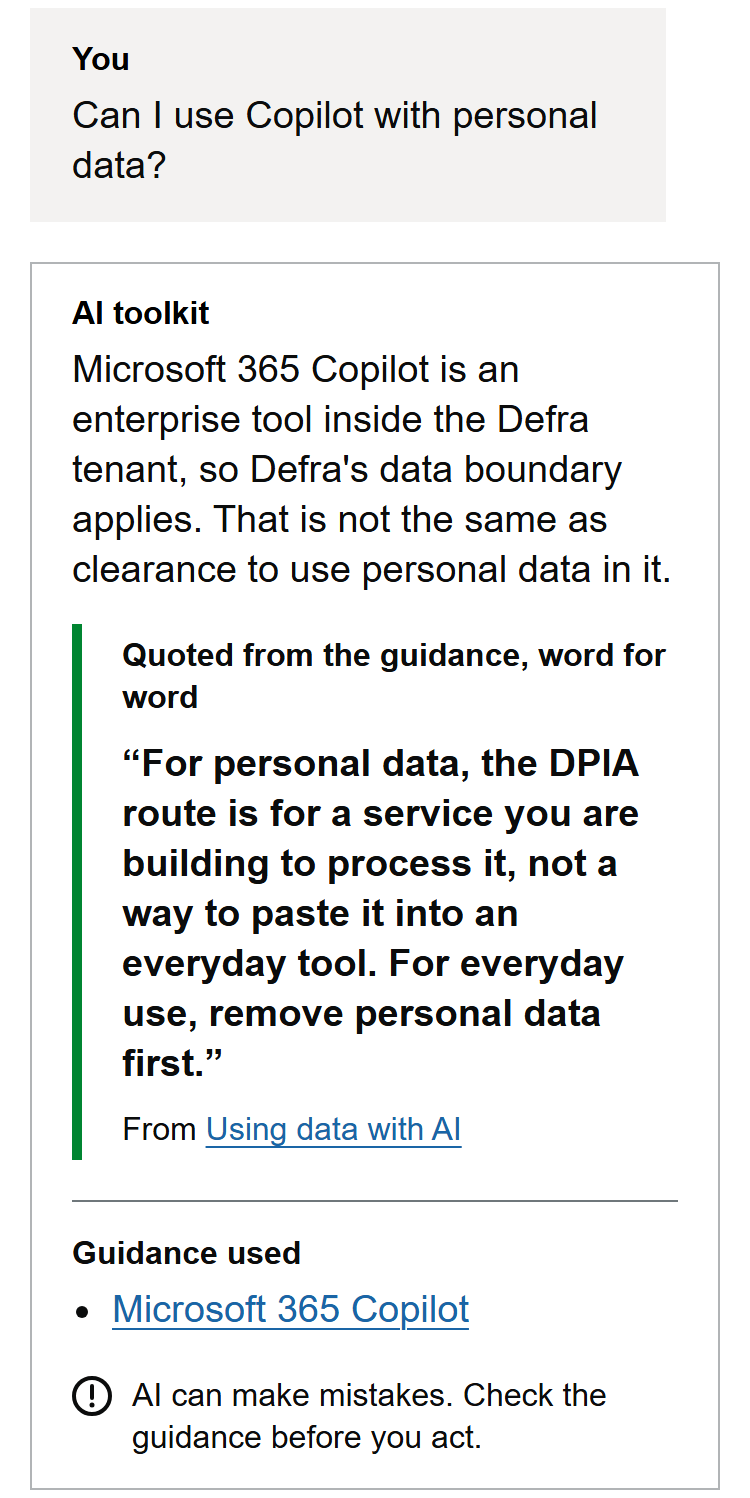
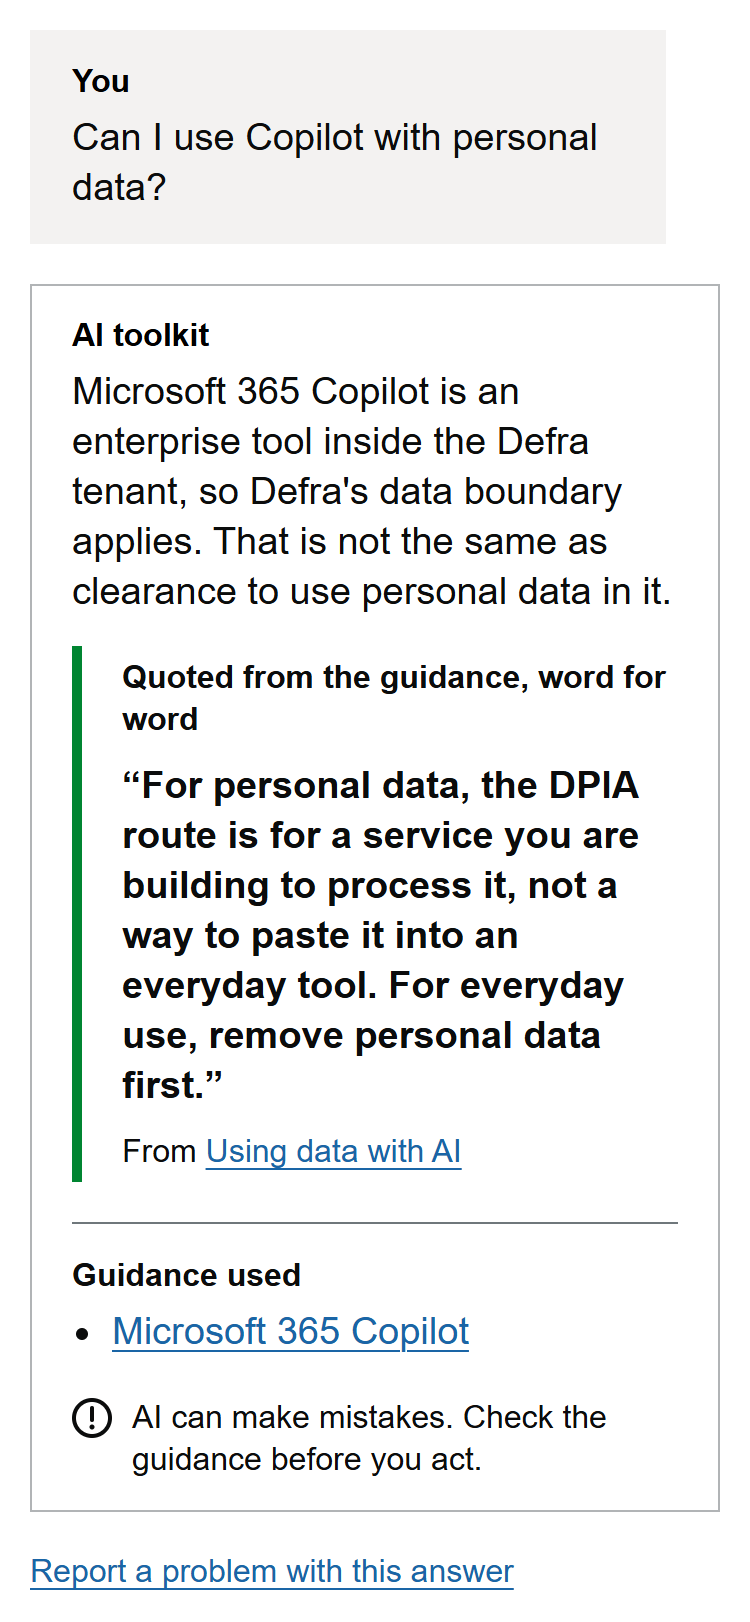
Edit the What's changed posts for style and tone (#192)
Bring the three posts in line with the GOV.UK A to Z and tone down
claims about other teams' remit.

Changed region(s): [[0.0307, 0.1842, 0.8893, 1.0], [0.092, 0.0307, 0.7973, 0.1228]]

diff --git a/src/client/stylesheets/components/_app-whats-changed.scss b/src/client/stylesheets/components/_app-whats-changed.scss
@@ -34,6 +34,16 @@
   font-weight: bold;
 }
 
+// Stops text ending on a lone word or link at any screen width. Headings
+// balance their lines. Browsers that do not support it wrap as normal.
+.app-whats-changed__body :is(p, li, figcaption) {
+  text-wrap: pretty;
+}
+
+.app-whats-changed__body :is(h2, h3) {
+  text-wrap: balance;
+}
+
 // A post's pictures are real screens, so they get a thin edge to separate
 // them from the page, and a caption that says what they show.
 .app-whats-changed__body figure {

diff --git a/src/content/whats-changed/why-we-are-building-a-way-to-ask-the-toolkit.md b/src/content/whats-changed/why-we-are-building-a-way-to-ask-the-toolkit.md
@@ -3,11 +3,11 @@ title: Why we are building a way to ask the toolkit
 date: 2026-10-02
 type: Blog post
 author: Chris Leo
-authorRole: AI Design Lead
+authorRole: Design Lead for the AI Capability and Enablement team
 summary: Why we are adding a way to ask the toolkit questions, and how it builds on what GDS learned from GOV.UK Chat.
 ---
 
-I design the AI digital toolkit. In this post I explain the problem Ask the toolkit solves, how it builds on GOV.UK Chat, and how we keep people in charge of its answers.
+I lead design for the AI Capability and Enablement team, including the AI digital toolkit. In this post I explain the problem Ask the toolkit solves, how it builds on GOV.UK Chat, and how we keep people in charge of the answers that artificial intelligence (AI) writes.
 
 ## Search needs the right words
 
@@ -22,7 +22,7 @@ When you ask a colleague, you tell them what you are doing. "I'm a supplier." "I
 <figure>
   <picture>
     <source media="(max-width: 40.0525em)" srcset="/public/images/whats-changed/ask-conversation-phone.png">
-    <img src="/public/images/whats-changed/ask-conversation.png" alt="A question, &quot;Can I use Copilot with personal data?&quot;, and the reply. The reply explains that Microsoft 365 Copilot is inside Defra's data boundary, but that is not clearance to use personal data in it. A rule from Using data with AI is shown in its own box, word for word. Under it are the guidance used and the line &quot;AI can make mistakes. Check the guidance before you act.&quot;">
+    <img src="/public/images/whats-changed/ask-conversation.png" alt="A question, &quot;Can I use Copilot with personal data?&quot;, and the reply. The reply explains that Microsoft 365 Copilot is inside Defra's data boundary, but that is not clearance to use personal data in it. A rule from Using data with AI is shown in its own box, word for word: &quot;For personal data, the DPIA route is for a service you are building to process it, not a way to paste it into an everyday tool. For everyday use, remove personal data first.&quot; Under it are the guidance used and the line &quot;AI can make mistakes. Check the guidance before you act.&quot; Below the reply is a link to report a problem with this answer.">
   </picture>
   <figcaption>A reply from Ask the toolkit. The rule in the green-edged box is copied from the guidance, word for word.</figcaption>
 </figure>
@@ -31,7 +31,7 @@ When you ask a colleague, you tell them what you are doing. "I'm a supplier." "I
 
 In May 2026, the Government Digital Service (GDS) launched [GOV.UK Chat](https://gds.blog.gov.uk/2026/05/14/gov-uk-chat-launches/) in the GOV.UK app. People can ask about government in everyday words and get one joined-up answer. GDS calls it the biggest change to how people use government content since GOV.UK launched in 2012.
 
-Chat started in the app, and GDS plans to [bring it to the GOV.UK website](https://gds.blog.gov.uk/2026/01/20/our-roadmap-for-modern-digital-government) too. Conversation is becoming a way to use government wherever people are. Designing it well is a new skill, and every department will need it.
+Chat started in the app, and GDS intends to make it [available on the GOV.UK website](https://gds.blog.gov.uk/2026/01/20/our-roadmap-for-modern-digital-government) too. Conversation could become a way to use government wherever people are. Designing it well is a new skill, and every department will need it.
 
 Ask the toolkit builds on what GDS has shared about [designing Chat](https://insidegovuk.blog.gov.uk/2026/08/19/designing-gov-uk-chat-for-the-gov-uk-app/). It is a small, specialist service on the web, for Defra's digital teams. That means we can try ideas quickly, and share what works across government.
 
@@ -41,16 +41,16 @@ That is the risk with a conversation. AI writes fluently, so a wrong answer can 
 
 <figure>
   <ol class="app-flow">
-    <li class="app-flow__step"><strong class="app-flow__action">You ask</strong>in your own words</li>
-    <li class="app-flow__step"><strong class="app-flow__action">AI drafts</strong>from the guidance</li>
-    <li class="app-flow__step"><strong class="app-flow__action">Code checks</strong>quotes and links</li>
-    <li class="app-flow__step"><strong class="app-flow__action">You decide</strong>with the sources</li>
+    <li class="app-flow__step"><strong class="app-flow__action">You ask</strong> in your own words</li>
+    <li class="app-flow__step"><strong class="app-flow__action">AI drafts</strong> from the guidance</li>
+    <li class="app-flow__step"><strong class="app-flow__action">Code checks</strong> quotes and links</li>
+    <li class="app-flow__step"><strong class="app-flow__action">You decide</strong> with the sources</li>
   </ol>
 </figure>
 
 The guidance holds the rules. When an answer quotes a rule, code checks the words are really on the page. If they are not, the quote is removed. People write the guidance, and answer what the AI should not.
 
-Ask is also honest about what it is. It has no name or face, and we designed it never to say "I". Every answer ends with "AI can make mistakes. Check the guidance before you act." And a person is always one step away, even when the AI is down.
+Ask is also honest about what it is. It has no name or face, and we designed it never to say 'I'. Every answer ends with 'AI can make mistakes. Check the guidance before you act.' And a person is always one step away, even when the AI is down.
 
 ## We build on how GDS tests GOV.UK Chat
 
@@ -68,7 +68,7 @@ That last one mattered most. People found the AI marker was too kind. It passed 
 
 ^ AI can help you find an answer faster. The guidance, and the people who write it, stay in charge of what the answer is. ^
 
-Before we tested Ask with people, we tested it with AI. In my next post I will share how, and the skills we built to do it.
+Before we tested Ask with people, we tested it with AI. [Sharing our AI skills for user-centred design](/ai-toolkit/whats-changed/sharing-our-ai-skills-for-user-centred-design) explains how, and shares the skills we built to do it.
 
 <a href="/ai-toolkit/ask" role="button" draggable="false" class="govuk-button" data-module="govuk-button">Ask the toolkit a question</a>
 

diff --git a/src/content/whats-changed/six-months-of-the-ai-capability-and-enablement-team.md b/src/content/whats-changed/six-months-of-the-ai-capability-and-enablement-team.md
@@ -11,9 +11,9 @@ I lead the AI Capability and Enablement team at Defra. We started in March. Six 
 
 ## Why we exist
 
-Teams across Defra want to use AI. Many of them were asking us the same things. Which tools can we use? What data can we put in them? Has anyone done this before?
+Teams across Defra want to use artificial intelligence (AI). Many of them were asking us the same things. Which tools can we use? What data can we put in them? Has anyone done this before?
 
-Our job is to make those questions easier to answer, so every team can use AI safely and well. We put it like this: enable, don't own. Patterns over platforms. It all lives in one place, the [AI digital toolkit](/ai-toolkit).
+Our job is to make those questions easier to answer, so every team can use AI safely and well. We help teams do it themselves, and build things once so everyone can reuse them. It all lives in one place, the [AI digital toolkit](/ai-toolkit).
 
 <figure>
   <picture>
@@ -26,7 +26,7 @@ Our job is to make those questions easier to answer, so every team can use AI sa
 
 [Deliver with AI](/ai-toolkit/deliver-with-ai) has 8 guidance pages. They cover choosing a tool, using data, keeping data safe, working with AI agents, security, ethics, sustainability and reporting an incident.
 
-We wrote them with the AI Unit in Digital, Data and Technology Services (DDTS), which supports Microsoft 365 Copilot across Defra. So the rules you read in the toolkit are the rules Defra works to.
+We wrote them with the AI Unit in Digital, Data and Technology Services (DDTS), so Defra speaks with one voice on AI. The rules you read in the toolkit are the same ones you will hear from the AI Unit.
 
 The most important one is simple. You can use any AI tool, as long as you follow the rules on [what data you put into it](/ai-toolkit/guidance/using-data-with-ai).
 
@@ -40,7 +40,7 @@ A radar is usually a picture, which is hard to use with a screen reader or on a 
 
 [Use AI patterns](/ai-toolkit/patterns) has 5 proofs of concept built and shared by Defra teams. They range from an AI assistant to cutting the cost of AI calls. Start from one of these instead of from scratch.
 
-We also share AI skills on [GitHub](https://github.com/DEFRA/defra-ai-plugins). These are written instructions that help AI assistants work to Defra's standards, from building a frontend to reviewing a design.
+We also share [Defra's AI skills on GitHub](https://github.com/DEFRA/defra-ai-plugins). These are written instructions that help AI assistants work to Defra's standards, from building a frontend to reviewing a design.
 
 ## Our incubator projects
 
@@ -56,6 +56,7 @@ So far, 52 requests have come in. 4 are now in delivery, including:
 
 Here is what I am most excited about next:
 
+- building an AI platform, so we can keep up with demand for AI-enabled services
 - growing more incubator teams, so we can take on more of Defra's hardest problems
 - running more training with Defra's heads of profession and their communities
 - launching Ask the toolkit, so you can ask a question in your own words (more in our next posts)
@@ -67,10 +68,10 @@ We want Defra to be the best place in government to use AI well, and to share wh
 
 <figure>
   <ol class="app-flow">
-    <li class="app-flow__step"><strong class="app-flow__action">Check an idea</strong>in 5 questions</li>
-    <li class="app-flow__step"><strong class="app-flow__action">Read guidance</strong>on tools and data</li>
-    <li class="app-flow__step"><strong class="app-flow__action">Reuse a pattern</strong>from Defra teams</li>
-    <li class="app-flow__step"><strong class="app-flow__action">Send a problem</strong>and we score it</li>
+    <li class="app-flow__step"><strong class="app-flow__action">Check an idea</strong> in 5 questions</li>
+    <li class="app-flow__step"><strong class="app-flow__action">Read guidance</strong> on tools and data</li>
+    <li class="app-flow__step"><strong class="app-flow__action">Reuse a pattern</strong> from Defra teams</li>
+    <li class="app-flow__step"><strong class="app-flow__action">Send a problem</strong> and we score it</li>
   </ol>
 </figure>
 

diff --git a/src/content/whats-changed/sharing-our-ai-skills-for-user-centred-design.md b/src/content/whats-changed/sharing-our-ai-skills-for-user-centred-design.md
@@ -3,11 +3,11 @@ title: Sharing our AI skills for user-centred design
 date: 2026-10-06
 type: Blog post
 author: Chris Leo
-authorRole: AI Design Lead
+authorRole: Design Lead for the AI Capability and Enablement team
 summary: We have published the instructions we give AI for design and research work, so any team can use them.
 ---
 
-In my [last post](/ai-toolkit/whats-changed/why-we-are-building-a-way-to-ask-the-toolkit), I explained why we are building Ask the toolkit. This time I want to share the AI skills we used to design and test it. They are open, so any team can use them and help improve them.
+My last post explained [why we are building Ask the toolkit](/ai-toolkit/whats-changed/why-we-are-building-a-way-to-ask-the-toolkit). This time I want to share the artificial intelligence (AI) skills we used to design and test it. They are open, so any team can use them and help improve them.
 
 ## What a skill is
 
@@ -34,17 +34,17 @@ The synthetic usability review skill tries a service in a real browser. It plays
 It checks every screen against:
 
 - Nielsen's 10 usability heuristics
-- Microsoft's guidelines for human-AI interaction
+- Microsoft's guidelines for human-AI&nbsp;interaction
 - the GOV.UK Design System
 
 Then a second AI reviews the same evidence on its own. One reviewer finds only about a third of the problems, so a second review catches more.
 
 <figure>
   <ol class="app-flow">
-    <li class="app-flow__step"><strong class="app-flow__action">AI tries the jobs</strong>as different people</li>
-    <li class="app-flow__step"><strong class="app-flow__action">Another AI</strong>reviews it alone</li>
-    <li class="app-flow__step"><strong class="app-flow__action">Fix the obvious</strong>before research</li>
-    <li class="app-flow__step"><strong class="app-flow__action">People test</strong>how it feels to use</li>
+    <li class="app-flow__step"><strong class="app-flow__action">AI tries the jobs</strong> as different people</li>
+    <li class="app-flow__step"><strong class="app-flow__action">Another AI</strong> reviews it alone</li>
+    <li class="app-flow__step"><strong class="app-flow__action">Fix the obvious</strong> before research</li>
+    <li class="app-flow__step"><strong class="app-flow__action">People test</strong> how it feels to use</li>
   </ol>
 </figure>
 
